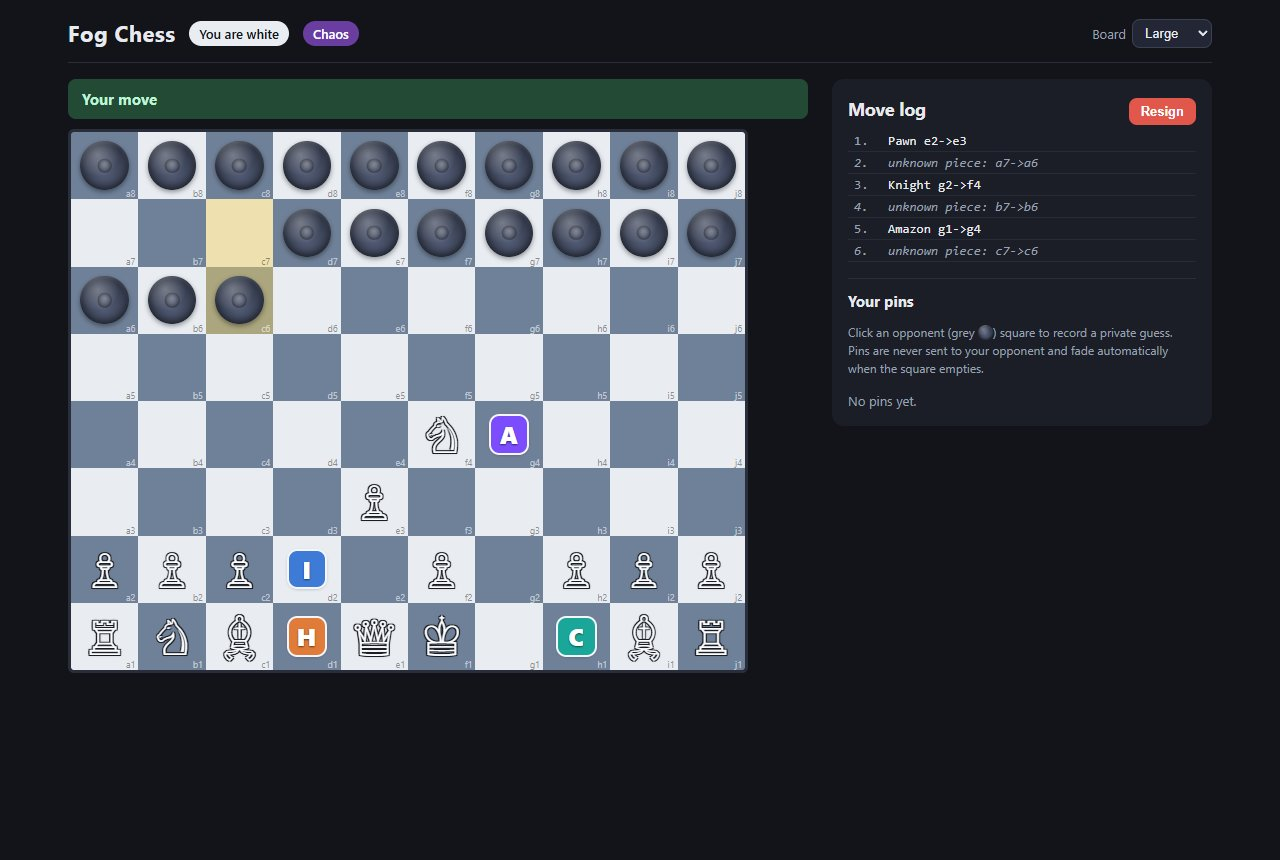
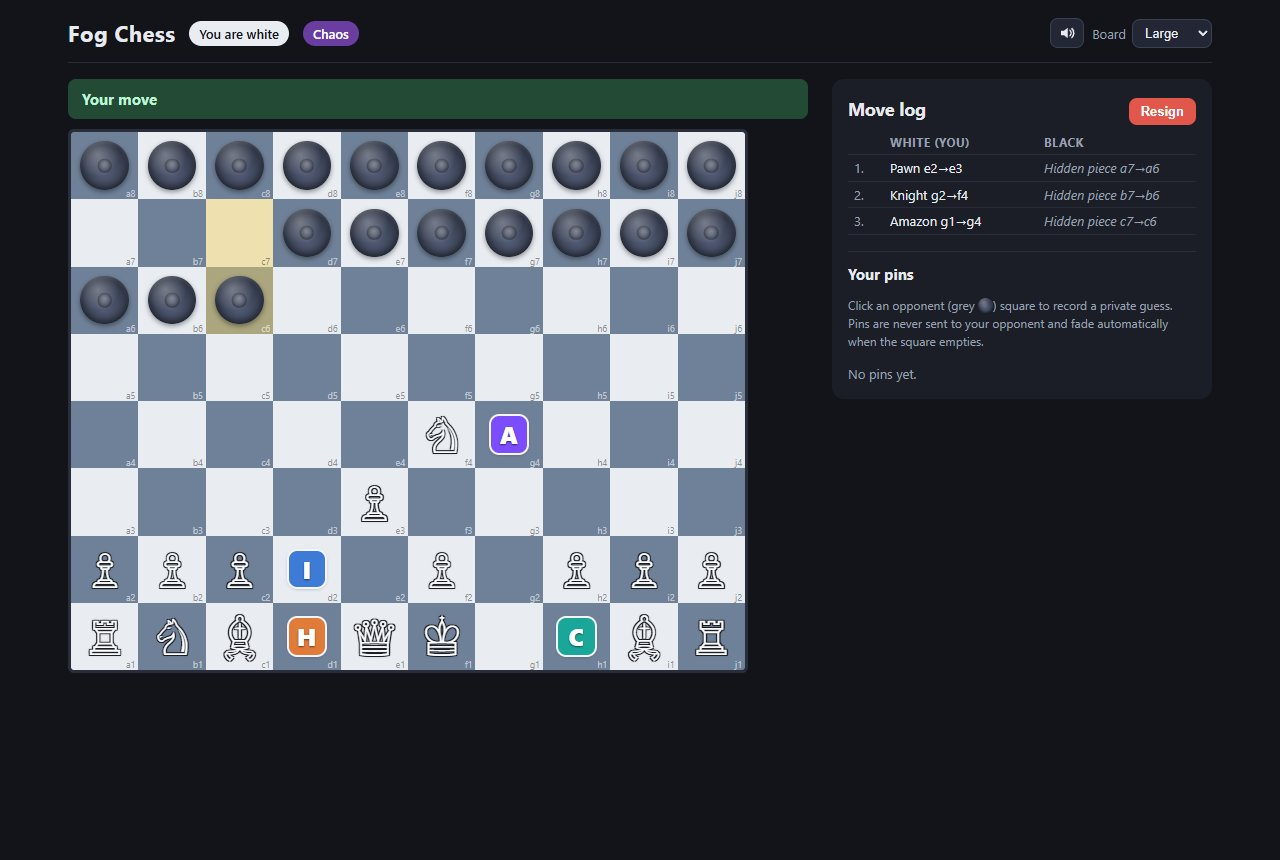
README: reconnection, tests, castling, chaos draws, joining; refresh screenshots
Document the 60 s reconnect window (RECONNECT_SECONDS) and its protocol
additions, npm test, castling from the standard squares, Chaos draw rules,
the join link / QR code, Randomize, sounds, Copy position, and the updated
limitations. Screenshots regenerated with the new move log and header.

diff --git a/README.md b/README.md
@@ -4,7 +4,7 @@
 
 Before the game, each player secretly arranges their own army. During the game, every enemy piece shows up as the same grey token. The server knows the full board and enforces the rules. Each player only ever receives a filtered view of it.
 
-![Classic game from White's view: opponent pieces are hidden tokens, with private guess pins and an anonymized move log](docs/screenshots/classic-game.jpg)
+![Classic game from White's view: opponent pieces are hidden tokens, with private guess pins and a paired, anonymized move log](docs/screenshots/classic-game.jpg)
 
 | Chaos mode: negotiating house rules | Chaos mode: 10×8 board with fairy pieces |
 |---|---|
@@ -23,17 +23,18 @@ The game works end to end on a LAN. It is still a personal project, and a few th
 
 **What works today**
 - Two players connect and negotiate house rules, then each arranges their pieces in secret and plays a full game with a result screen and a full reveal at the end.
-- **Classic mode** uses the standard chess rules through `chess.js`: legal moves, check, checkmate, stalemate, draws, en passant and promotion. Castling is disabled on purpose because the starting positions are custom.
-- **Chaos mode** has its own rules engine: custom armies, piece bans, 6 fairy pieces, 8×8 / 10×8 / 10×10 boards, and the game is won by capturing the enemy king.
+- **Classic mode** uses the standard chess rules through `chess.js`: legal moves, check, checkmate, stalemate, draws (with the reason), en passant, promotion and castling. Castling is available when your king and rook start on their standard squares.
+- **Chaos mode** has its own rules engine: custom armies, piece bans, 6 fairy pieces, 8×8 / 10×8 / 10×10 boards. You win by capturing the enemy king, and draws come from threefold repetition, the 50-move rule, or the player to move having no legal move.
 - The fog filter is enforced on the server: an opponent's piece type is never sent to your browser while the game is running.
-- Resign, rematch (both players go back to the house-rules screen and keep their colours), and a board-size setting that is saved in your browser.
+- **Reconnecting.** A reload or a dropped connection doesn't end the game. Your seat is held for 60 seconds while your opponent sees a countdown, and you come back to the same fogged board. Only after the 60 seconds does the player who stayed win by abandonment.
+- Resign and rematch (both players go back to the house-rules screen and keep their colours). There is also a board-size setting and a sound on/off toggle, both saved in your browser.
+- Automated tests (`npm test`) cover reconnecting, the abandonment timeout, the full reveal at the end of the game, castling and the Chaos draw rules.
 
 **Known limitations / what's next**
 - **One match per server.** There are no rooms, room codes or spectators.
-- **No reconnect.** If a player disconnects during a game, the game ends. Once both players have left, the server resets to a fresh lobby.
-- **No clocks or timers.** Chaos mode has no move-limit or repetition draw rule. A game there ends only when a king is captured or the player to move has no legal move.
-- **No automated test suite in the repo yet.** The backend and the fog filter were tested with throwaway socket-client scripts (an automated audit checked every board sent in every message across full games and found no leaks of hidden piece types). That process is written up in [`docs/transcripts/`](docs/transcripts/), but the scripts themselves are not committed.
-- It only runs on a LAN or on localhost, and state is kept in memory with no database or accounts.
+- **No clocks.** A game only ends by the rules above, by resigning, or when a player leaves for more than 60 seconds.
+- Private pins and a half-finished setup survive a reload of the **same tab** only (they live in `sessionStorage`).
+- It only runs on a LAN or on localhost, and state is kept in memory with no database or accounts. Restarting the server ends every game.
 
 ---
 
@@ -41,14 +42,17 @@ The game works end to end on a LAN. It is still a personal project, and a few th
 
 - **Real-time two-player play** over WebSockets (Socket.io).
 - **House-rules negotiation.** Either player can propose the mode, board size, piece counts, bans and fairy pieces. Any change resets both agreements, and the game starts only when both players agree to the same proposal.
-- **Secret arrangement phase.** You place your pieces anywhere on your own home ranks, including pawns on the back rank. You can click to place or drag and drop. Classic mode has a "Standard setup" shortcut and Chaos mode has "Auto-fill".
+- **Easy joining.** While you wait for an opponent, the lobby shows the LAN link to open on the second device, with a **Copy link** button and a **QR code**. The QR code is generated by the server itself; no outside service is used.
+- **Secret arrangement phase.** You place your pieces anywhere on your own home ranks, including pawns on the back rank. You can click to place or drag and drop. Classic mode has a "Standard setup" shortcut, Chaos mode has "Auto-fill", and both have **Randomize**, which shuffles your pieces with the pawns kept in front.
 - **Fog of war.** Opponent pieces are drawn as a neutral hidden token, and their real type is never sent to you.
-- **Capture reveals.** When a piece is captured, its type is revealed to both players. The piece that made the capture stays hidden. This is configurable.
+- **Capture reveals.** When a piece is captured, its type is revealed to both players ("Your pawn on d5 was captured."). The piece that made the capture stays hidden. This is configurable.
 - **Fair check (Classic).** You are told when you are in check, and the checking piece's *square* is highlighted, but not its identity.
 - **Private pins.** Click any occupied opponent square to record a guess (Pawn/Knight/…/King or free text). Pins stay in your browser, and a pin fades automatically when its square empties.
-- **Anonymized move log.** Your own moves are named in full (`Knight g1->f3`). Your opponent's moves show only the squares (`unknown piece: b8->c6`).
-- **Full reveal** of both armies when the game ends.
-- **Adjustable board size** (Small / Normal / Large / Huge), saved in `localStorage`.
+- **Anonymized move log**, laid out as numbered White/Black pairs. Your own moves are named in full (`Knight g1→f3`, `Castles kingside (e1→g1)`). Your opponent's moves show only the squares (`Hidden piece b8→c6, takes your Pawn`).
+- **Full reveal** of both armies when the game ends, which is still there if you reload. The move log then names every piece on both sides. A result in plain words ("You won! Your opponent resigned.") and a **Copy position** button that copies the final position as FEN (Classic).
+- **Reconnect within 60 seconds** after a reload or a network drop (see above).
+- **Sounds** for moves, captures and the end of the game, made with the Web Audio API with no audio files. There is a mute toggle in the header.
+- **Adjustable board size** (Small / Normal / Large / Huge), saved in `localStorage`. The board also shrinks to fit the window height, so it never needs scrolling on a laptop screen.
 - **No build step, no database, no accounts:** `npm install && npm start`.
 
 ### Chaos mode
@@ -69,7 +73,8 @@ A "go wild" mode that both players must agree to. Instead of checkmate, **you wi
   | **Wizard** | W | Camel **+** one-step diagonal |
 
 - **Bigger boards:** 8×8, 10×8 or 10×10.
-- There is no check, so there is no checkmate. If the player to move has no legal move, the game is a draw.
+- There is no check, so there is no checkmate, and there is no castling.
+- **Draws:** the player to move has no legal move; the same position (same player to move) appears for the third time; or 50 moves each go by without a capture or a pawn move.
 
 Your own fairy pieces appear as coloured lettered badges. All of your opponent's pieces, standard or fairy, appear as the same hidden token.
 
@@ -99,10 +104,16 @@ The central design rule:
 - The **server** always holds the true board. Classic mode uses a `chess.js` instance, loaded from a FEN built from the two secret arrangements (`src/fen.js`). Chaos mode uses its own engine (`src/chaos.js`).
 - Before **every** emit, `src/fog.js` turns the true board into a per-player copy. You get your own pieces in full, only `{occupied: true}` for opponent squares, and `null` for empty ones. Move-log entries are filtered the same way.
 - `fog.js` works against a small "board source" interface (`get(square)`), so the same filter covers both modes and every board size without knowing any chaos rules.
-- The full, unfiltered board is sent in exactly **one** place: the `gameOver` event, for the final reveal.
+- The full, unfiltered board is sent only **after the game has ended**: in the `gameOver` event, and in the `gameOver` field of the ended `state`, so a player who reloads still gets the reveal. The move log starts naming opponent pieces at that same moment.
 - The client (`public/client.js`) has no code path that draws an opponent piece type from the live board. The information simply isn't there.
 
-The Socket.io events and payload shapes are specified in [`docs/CONTRACT.md`](docs/CONTRACT.md) and [`docs/CONTRACT-v2.md`](docs/CONTRACT-v2.md).
+The Socket.io events and payload shapes are specified in [`docs/CONTRACT.md`](docs/CONTRACT.md) and [`docs/CONTRACT-v2.md`](docs/CONTRACT-v2.md). Reconnection adds the following on top of those documents:
+
+- **Seat tokens.** The first `assigned` event carries a random `token`. The browser keeps it and sends it back in the socket.io handshake (`auth: { token }`). A matching token resumes that seat (`assigned.resumed: true`). The server hands tokens out; a client can never choose its own.
+- **Away seats.** When a socket drops, its seat is held for `RECONNECT_SECONDS` (default 60). The opponent's `state` has `opponentConnected: false` and `opponentAwayMs`, the time left. A third connection is rejected with `reason: "reconnecting"` while a seat is held.
+- **Timeout.** Mid-game, the player who stayed wins with `result`/`reason` `"abandoned"`, and gets the usual `gameOver` with the full reveal. In the house-rules or setup phase, the player who stayed goes back to the lobby. When both players are gone, the server resets.
+- **After the game.** Someone who connects after a game has ended, when a seat is free or its owner is away, starts a fresh match instead of seeing the old end screen.
+- **New `state` fields:** `lastMove`, `gameId`, `reconnectGraceMs`, `opponentAwayMs`, and `gameOver` when `phase` is `"ended"`.
 
 ---
 
@@ -125,11 +136,19 @@ Fog Chess running at:
   http://192.168.1.42:3000
 ```
 
-- On the host, open `http://localhost:3000`.
-- On a second device on the **same Wi-Fi**, open the `http://192.168.x.x:3000` address.
-- To try it alone, open two browser windows. One of them should be private or incognito, or in a different browser.
+- On the host, open `http://localhost:3000`. The waiting screen shows the LAN link and a QR code for the second player.
+- On a second device on the **same Wi-Fi**, open that link (or scan the code).
+- To try it alone, open a second tab or window. A private/incognito window or a different browser works too.
 
 The first two connections become **White** and **Black**. A third connection is told the match is full.
+
+### Running the tests
+
+```bash
+npm test
+```
+
+This runs the `node:test` suites in `test/`. They start an in-process server with a short reconnect window and drive it with real `socket.io-client` connections to check reconnecting mid-game (the fogged view is restored), the abandonment timeout, the full reveal after a game ends (including after a reload), taking over a seat from the same tab, and resetting when both players leave. Rule tests cover castling and the Chaos draw rules.
 
 ### Changing the port
 
@@ -144,16 +163,19 @@ $env:PORT=4000; npm start
 set PORT=4000 && npm start
 ```
 
+The reconnect window can be changed the same way, for example `RECONNECT_SECONDS=120 npm start`.
+
 ---
 
 ## How to play
 
-1. **Lobby.** Wait for the second player to connect.
+1. **Lobby.** Share the link or QR code on the waiting screen and wait for the second player to connect.
 2. **House rules.** Pick **Classic** or **Chaos**. For Chaos, also set the board size, piece counts, bans and fairy pieces. Both players press **Agree** on the same proposal.
-3. **Setup (secret).** You only see your own home ranks. Click a tray piece to pick it up, then click home squares to place it (dragging works too). Click a placed piece to remove it. Press **Ready** once every piece is placed.
+3. **Setup (secret).** You only see your own home ranks. Click a tray piece to pick it up, then click home squares to place it (dragging works too). Click a placed piece to remove it, or use **Standard setup** / **Auto-fill** / **Randomize**. Press **Ready** once every piece is placed.
 4. **Play.** Click one of your pieces to see its legal moves, then click a highlighted square. Opponent moves flash their from/to squares. If a pawn reaches the last rank, you choose what it promotes to.
 5. **Pins.** Click any occupied opponent square to save a private guess.
-6. **End.** On checkmate, king capture, stalemate, draw, resignation or disconnect, both armies are revealed. **Rematch** (both players must accept) takes you back to the house-rules screen with the same colours.
+6. **Disconnects.** If you reload or lose the connection, you have 60 seconds to come back. Just reopen the page in the same browser. Your opponent sees "Opponent disconnected, waiting 60 s" in the meantime.
+7. **End.** On checkmate, king capture, stalemate, a draw, resignation or abandonment, both armies are revealed and the move log names every piece. **Rematch** (both players must accept) takes you back to the house-rules screen with the same colours. In Classic, **Copy position** copies the final position as FEN.
 
 ---
 
@@ -163,7 +185,9 @@ set PORT=4000 && npm start
 |---|---|---|---|
 | `server.js` (`CONFIG`) | `revealCapturedPieceType` | `true` | Reveal a captured piece's type to both players. Set it to `false` for a harder, fully blind game. |
 | Environment | `PORT` | `3000` | TCP port the server listens on. |
-| Browser | Board size | Normal | Small / Normal / Large / Huge, saved in `localStorage`. |
+| Environment | `RECONNECT_SECONDS` | `60` | How long a disconnected player's seat is held before they lose the game (or their seat, before the game has started). |
+| Browser | Board size | Large | Small / Normal / Large / Huge, saved in `localStorage`. The board also fits itself to the window height. On phones it simply fills the width. |
+| Browser | Sound | On | Mute toggle in the header, saved in `localStorage`. |
 
 ---
 
@@ -171,10 +195,11 @@ set PORT=4000 && npm start
 
 ```
 fog-chess/
-├── server.js            # Express static server + Socket.io event wiring; prints LAN URLs
+├── server.js            # createServer(): Express + Socket.io wiring, reconnect timers, /api/info, /qr.svg
 ├── package.json
+├── test/                # npm test: node:test + socket.io-client (reconnect, abandonment, reveal, rules)
 ├── src/
-│   ├── game.js          # Match state machine: lobby → config → setup → playing → ended; routes by mode
+│   ├── game.js          # Match state machine (lobby → config → setup → playing → ended), seats/tokens, draws
 │   ├── fog.js           # The fog filter: the only module that handles hidden information
 │   ├── fen.js           # Validates classic arrangements and builds the starting FEN for chess.js
 │   └── chaos.js         # Chaos rules engine: fairy pieces, variable boards, king capture
@@ -212,15 +237,18 @@ This is almost always the host's firewall.
 
 **"Match is full."** Two players are already connected. Close one of the other tabs or devices and reload.
 
-**A player disconnected mid-game.** Reconnecting isn't supported yet. Refresh both browsers to start a new match.
+**A player disconnected mid-game.** Reopen the page in the same browser within 60 seconds and the game carries on. After that, the player who stayed wins by abandonment, and the next person to connect starts a fresh match.
+
+**"A game is in progress and one player is reconnecting."** Both seats are taken, and one of them is being held for a player who dropped. Wait up to a minute and reload.
 
 ---
 
 ## Rules notes
 
-- **No castling**, in either mode, because the starting positions are custom.
+- **Castling (Classic):** allowed when your king starts on e1/e8 and a rook starts on a1/h1 (a8/h8), which is exactly what **Standard setup** does. The normal rules apply after that: the king and that rook must not have moved, the squares between them must be empty, and the king may not castle out of, through or into check. Chaos mode has no castling.
 - **Back-rank pawns** are allowed. They move one square at a time until they reach their 2nd rank.
 - **Promotion** works as normal. In Chaos mode the choices come from the agreed roster. If no choice is sent, the pawn promotes to a queen (when a queen is available).
+- **Draws (Chaos):** threefold repetition, 50 moves each without a capture or pawn move, or no legal move for the player to move.
 
 ## License
 
